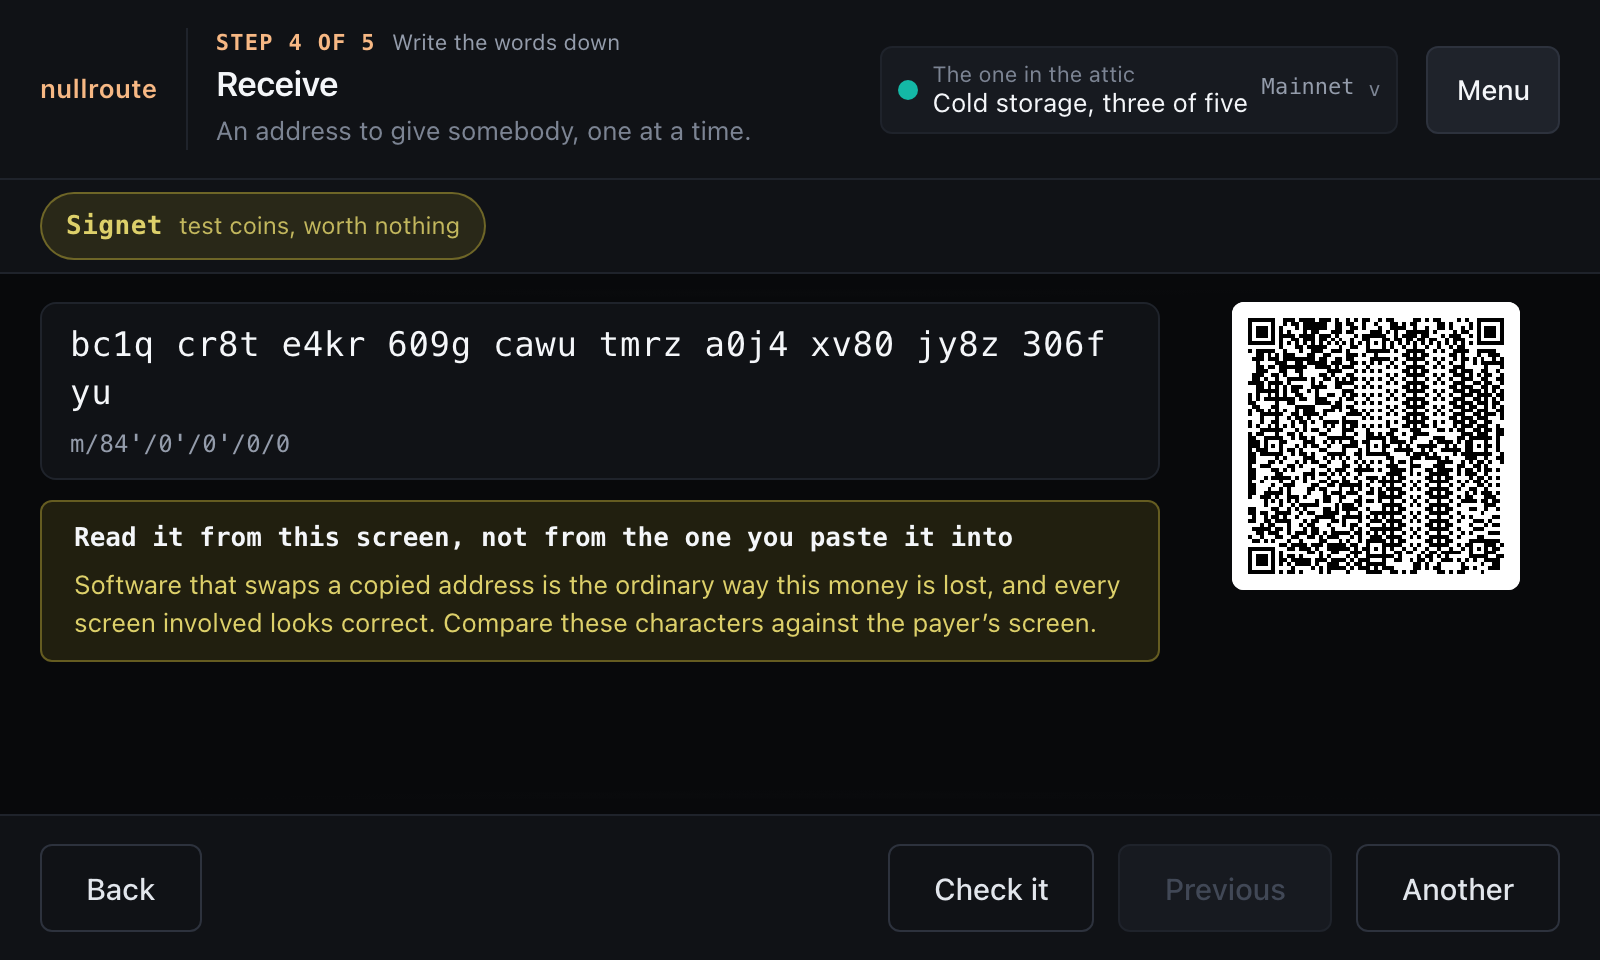
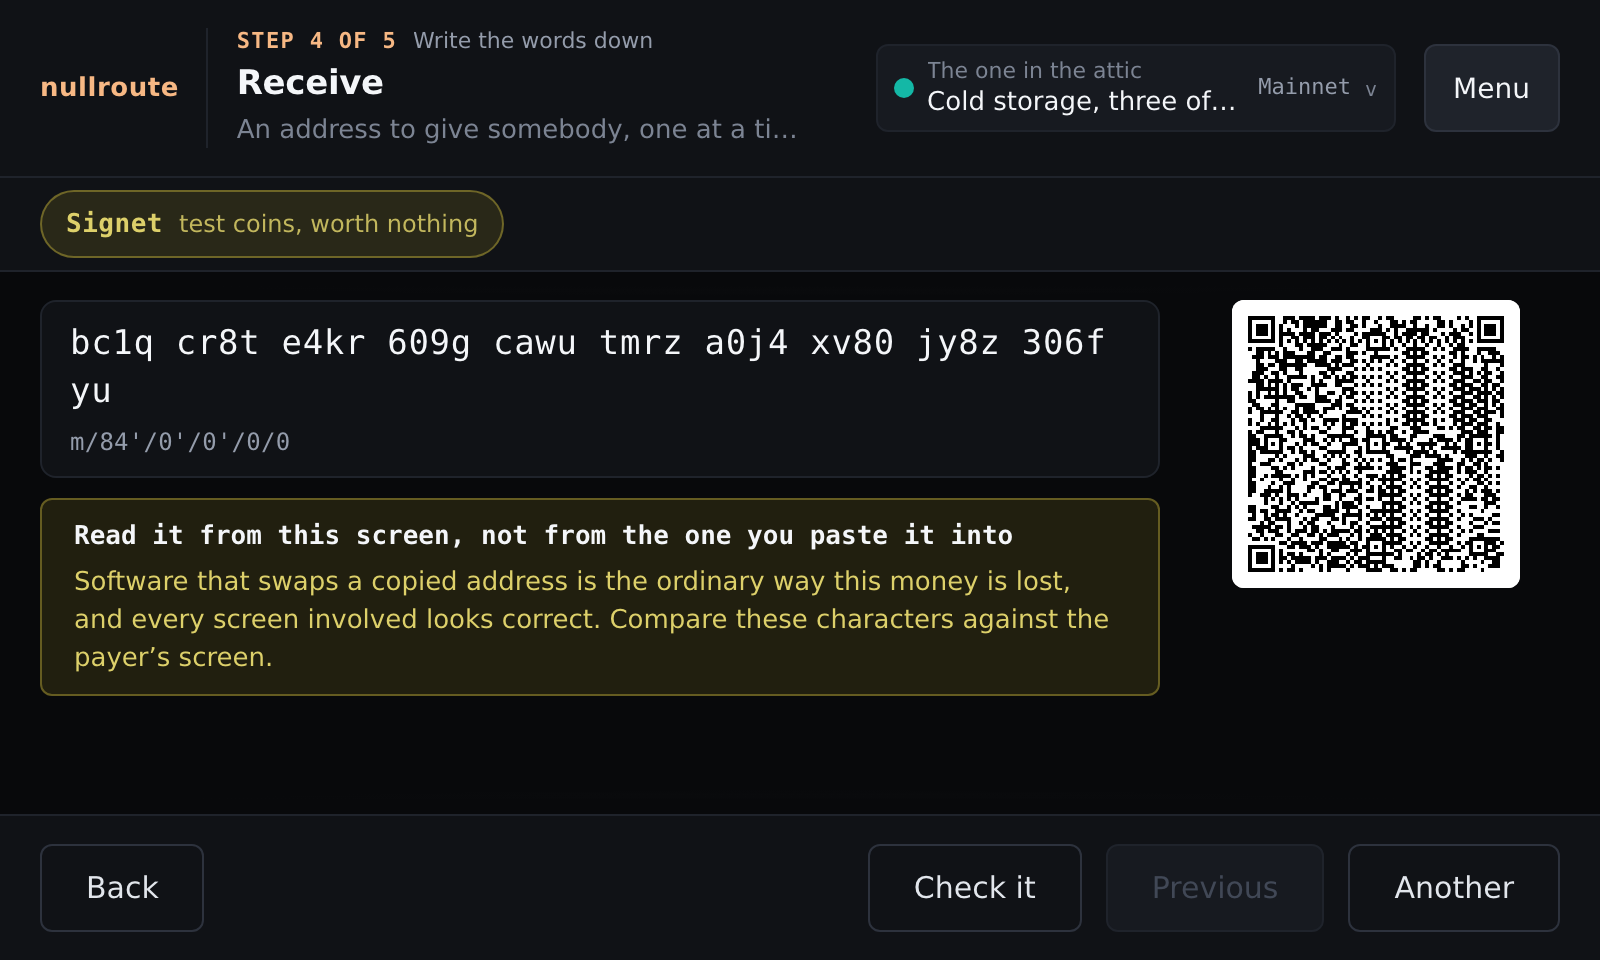
Every layout on this device was measured in a font it does not have
The rootfs carries fonts-dejavu-core and fonts-dejavu-mono and nothing else.
Eight files, pulled in as a dependency of chromium, asked for by nobody. The
stylesheet named 'JetBrains Mono', 'IBM Plex Mono', 'SF Mono', Menlo and
Consolas ahead of the generics, and not one of them is installed there, so
every name fell through and the panel rendered DejaVu.

A macOS workstation falls through somewhere else. The same stack lands on SF
Pro and SF Mono, which are narrower, so check-screen-fit has been measuring one
typeface and certifying a panel that renders in another for the life of the
project. "122 screen states fit 800x480" was a statement about a laptop.

CI runs Linux, has DejaVu, and said so the first time it was ever allowed to
finish this job: thirty six subtitles over their column, a header at 80px
against a 78px limit, and keys 6px under the action bar. Those were the true
numbers and there was no way to see them from here.

So the fonts are named rather than inherited, and asked for in the image rather
than arriving with chromium: a future chromium that stops recommending them now
fails the build instead of silently reflowing every screen on the device. The
same four TTFs are installed on this workstation, out of the rootfs it builds,
so the harness and the hardware agree.

MEASURED HONESTLY, THIRTY EIGHT STATES FAILED. All of them true.

  Twenty pixels moved from the identity chip to the title column. That is about
[…]

diff --git a/packages/ui/src/styles.css b/packages/ui/src/styles.css
@@ -112,9 +112,28 @@
   --color-danger-500: #d9534f;
   --color-danger-300: #f0918e;
 
-  --font-mono:
-    'JetBrains Mono', 'IBM Plex Mono', 'SF Mono', ui-monospace, Menlo, Consolas, monospace;
-  --font-sans: ui-sans-serif, system-ui, -apple-system, 'Segoe UI', Roboto, sans-serif;
+  /* THE FONT THE DEVICE ACTUALLY HAS, NAMED FIRST.
+
+     WHAT THIS STACK USED TO SAY, and what it got. 'JetBrains Mono', 'IBM Plex
+     Mono', 'SF Mono', Menlo, Consolas: not one of them is installed on the
+     device. The rootfs carries fonts-dejavu-core and fonts-dejavu-mono and
+     nothing else, eight files, pulled in as a dependency of chromium rather
+     than asked for by anybody. So every name here fell through to the generic
+     at the end, and the panel rendered DejaVu.
+
+     A WORKSTATION FELL THROUGH SOMEWHERE ELSE. On macOS the same stack lands on
+     SF Pro and SF Mono, which are narrower, so check-screen-fit measured one
+     typeface for three days and certified a panel that renders in another. CI
+     runs Linux, has DejaVu, and disagreed with it the first time it was allowed
+     to run: thirty six subtitles over, a header at 80px against a 78px limit,
+     and keys 6px under the action bar. Those numbers are the true ones.
+
+     Named rather than inherited, so the device, CI and a workstation with the
+     font installed all measure the same thing, and so the typeface this panel
+     is laid out in is a decision somebody made rather than a side effect of an
+     apt dependency that could change under it. */
+  --font-mono: 'DejaVu Sans Mono', ui-monospace, Menlo, Consolas, monospace;
+  --font-sans: 'DejaVu Sans', ui-sans-serif, system-ui, -apple-system, sans-serif;
 }
 
 :root {
@@ -201,9 +220,9 @@
 
   --radius-md: 8px;
 
-  --font-mono:
-    'JetBrains Mono', 'IBM Plex Mono', 'SF Mono', ui-monospace, Menlo, Consolas, monospace;
-  --font-sans: ui-sans-serif, system-ui, -apple-system, 'Segoe UI', Roboto, sans-serif;
+  /* THE FONT THE DEVICE ACTUALLY HAS, NAMED FIRST. See the note in :root. */
+  --font-mono: 'DejaVu Sans Mono', ui-monospace, Menlo, Consolas, monospace;
+  --font-sans: 'DejaVu Sans', ui-sans-serif, system-ui, -apple-system, sans-serif;
 }
 
 /* ============================================================================
@@ -2756,8 +2775,17 @@ body {
   flex: 0 1 auto;
   min-width: 0;
   /* Room for a real wallet name beside a real device name. Below this the
-     label truncated on every screen rather than on the long ones. */
-  max-width: 17.5rem;
+     label truncated on every screen rather than on the long ones.
+
+     16.25rem RATHER THAN 17.5, and the twenty pixels went to the title column
+     beside it. Measured in the font the device actually has: eight subtitles
+     were two to nine pixels too long for the room this left them, at an
+     ordinary wallet name rather than a long one, so they ended in an ellipsis
+     on the panel while reading fine on a workstation. Twenty pixels here is
+     about two characters of a wallet name, which still elides with a colour
+     beside it and is written out in full on the picker and the manage screen. A
+     clipped sentence is repeated nowhere. */
+  max-width: 16.25rem;
   padding: 0.25rem 0.5rem;
   border-radius: 0.375rem;
   border: 1px solid var(--color-line);

diff --git a/packages/ui/src/screens/UnlockedScreen.tsx b/packages/ui/src/screens/UnlockedScreen.tsx
@@ -96,10 +96,16 @@ export function UnlockedScreen(props: UnlockedScreenProps): ReactElement {
         <span className="nr-dot" data-colour={colour} />
       </div>
 
+      {/* TIGHTENED TO KEEP THE WARNING BELOW IT ON THE PANEL. In the font the
+          device actually renders in, this screen was 7px too tall and what fell
+          off the bottom was the passphrase warning, which is marked must-see
+          and is the whole reason this screen exists. A line came out of here
+          rather than out of that, because this block explains a check and that
+          one explains how the check can be silently wrong. */}
       <Info label="Check the fingerprint" testId="unlocked-compare">
         Compare this with what you wrote down when you made this wallet: it is computed from the
-        keys that just loaded, so it cannot be faked by editing a file. If you never recorded one,
-        this screen cannot help you.
+        keys that just loaded, so it cannot be faked. If you never recorded one, this screen cannot
+        help you.
       </Info>
 
       {usedPassphrase && (
@@ -111,9 +117,8 @@ export function UnlockedScreen(props: UnlockedScreenProps): ReactElement {
           <strong>This wallet uses a passphrase</strong>
           <span>
             A wrong passphrase does not produce an error. It opens a different, valid, empty wallet,
-            and every screen after this one will look normal. If the fingerprint above is not the
-            one you recorded, lock now and try again. The mnemonic alone will not recover this
-            wallet.
+            and every screen after looks normal. If the fingerprint above is not the one you
+            recorded, lock now and try again. The mnemonic alone will not recover this wallet.
           </span>
         </div>
       )}

diff --git a/packages/ui/src/screens/ManageWalletScreen.tsx b/packages/ui/src/screens/ManageWalletScreen.tsx
@@ -706,8 +706,8 @@ export function ManageWalletScreen(props: ManageWalletScreenProps): ReactElement
         <div className="nr-banner nr-banner--danger" data-testid="manage-destroy-warning">
           <strong>This removes the seed from this device</strong>
           <span>
-            If you wrote the mnemonic down, that paper is now the only copy and it still works. If
-            you did not, the money in this wallet is gone.
+            If you wrote the mnemonic down, that paper still works. If you did not, the money here
+            is gone.
           </span>
         </div>
 

diff --git a/packages/ui/src/journeys.ts b/packages/ui/src/journeys.ts
@@ -173,7 +173,7 @@ export const JOURNEYS: readonly Journey[] = [
   },
   {
     id: 'multisig',
-    goal: 'Set up a wallet across several devices',
+    goal: 'Set up a wallet across devices',
     summary:
       'Two or three of these, or this one beside hardware from other vendors, sharing one wallet that needs several of them to spend.',
     needs: [

diff --git a/packages/ui/src/screens/AssembleQuorumScreen.tsx b/packages/ui/src/screens/AssembleQuorumScreen.tsx
@@ -233,7 +233,7 @@ export function AssembleQuorumScreen(props: AssembleQuorumScreenProps): ReactEle
   return (
     <Screen
       title="Build a quorum"
-      subtitle="Every device’s key, here, with no coordinator."
+      subtitle="Every device’s key, with no coordinator."
       banner={banner}
       nav={nav}
       identity={identity}

diff --git a/docs/VERIFICATION.md b/docs/VERIFICATION.md
@@ -65,14 +65,14 @@ Compute the root hash:
 
 ```console
 $ sha256sum MANIFEST.lock
-2b20de1e3dbafcc5bc449d441cd82bb9dac7f8cbf7042e54ea1686cf0dc5292a  MANIFEST.lock
+4b1d8afd00e19e7a42830e700019f8d4f0a20fbd613350e6b6c1f93b700df324  MANIFEST.lock
 ```
 
 Regenerate the manifest from scratch and confirm it matches what is committed:
 
 ```console
 $ git ls-files -z packages spec provisioning | LC_ALL=C sort -z | xargs -0 sha256sum | sha256sum
-2b20de1e3dbafcc5bc449d441cd82bb9dac7f8cbf7042e54ea1686cf0dc5292a  -
+4b1d8afd00e19e7a42830e700019f8d4f0a20fbd613350e6b6c1f93b700df324  -
 ```
 
 On macOS use `shasum -a 256` in place of `sha256sum`. The values are identical.
